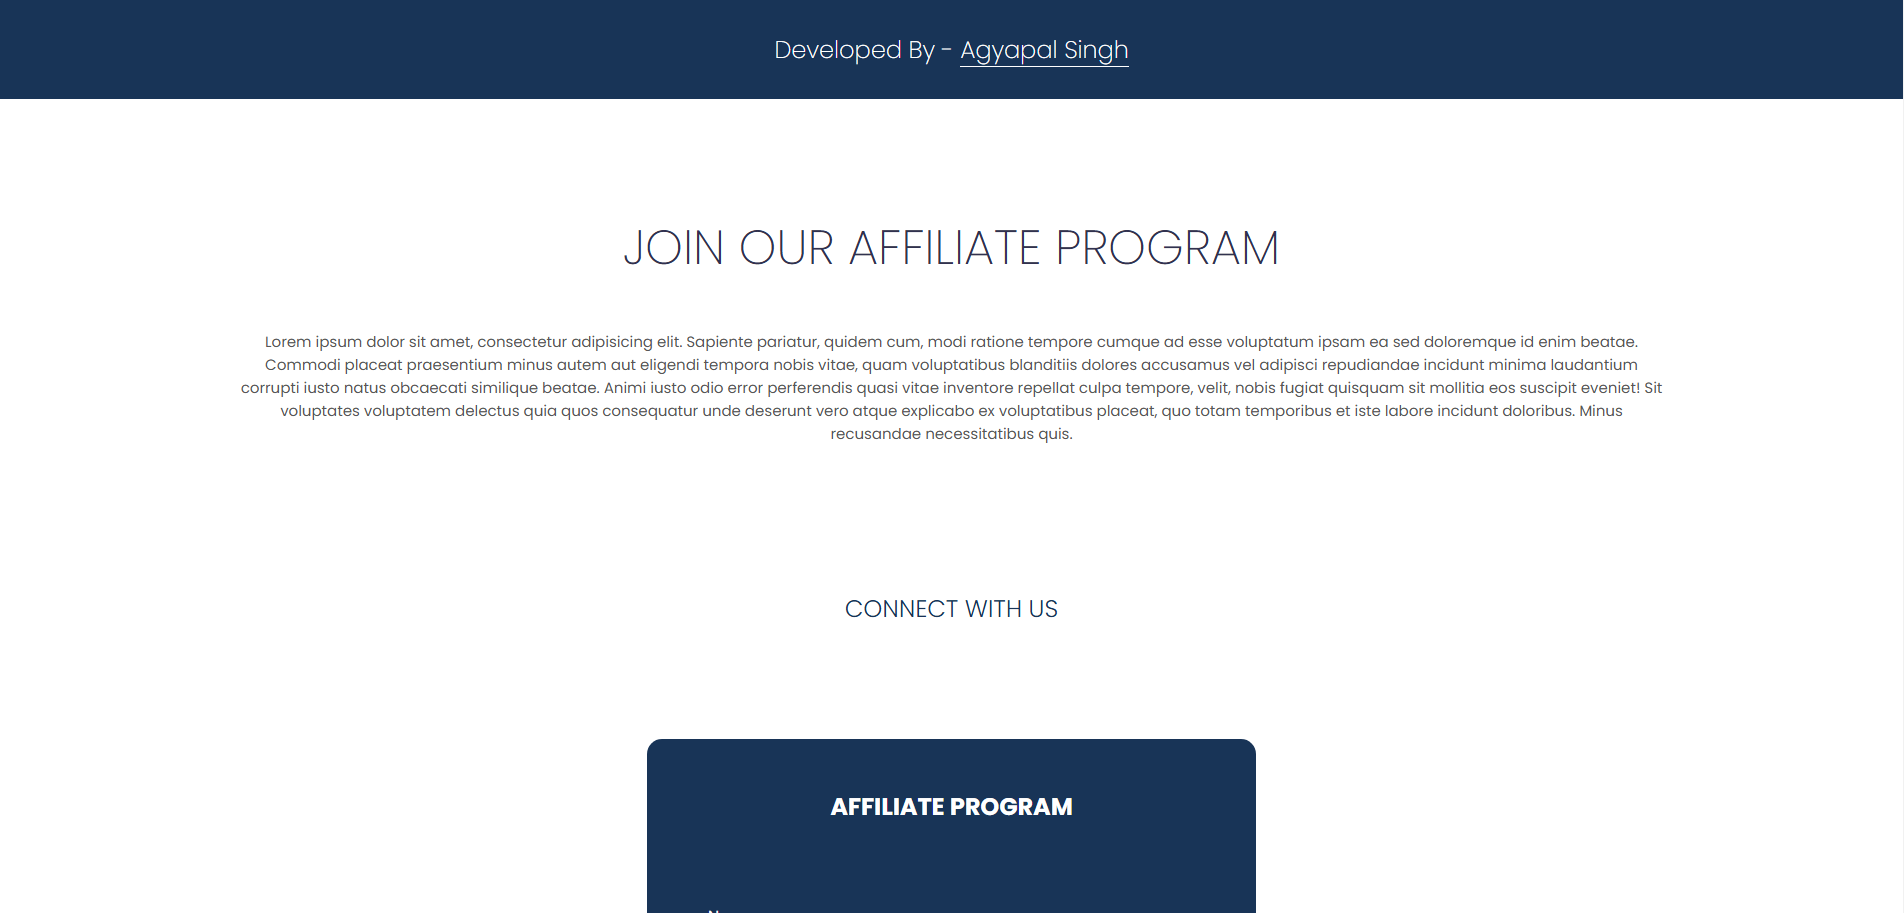
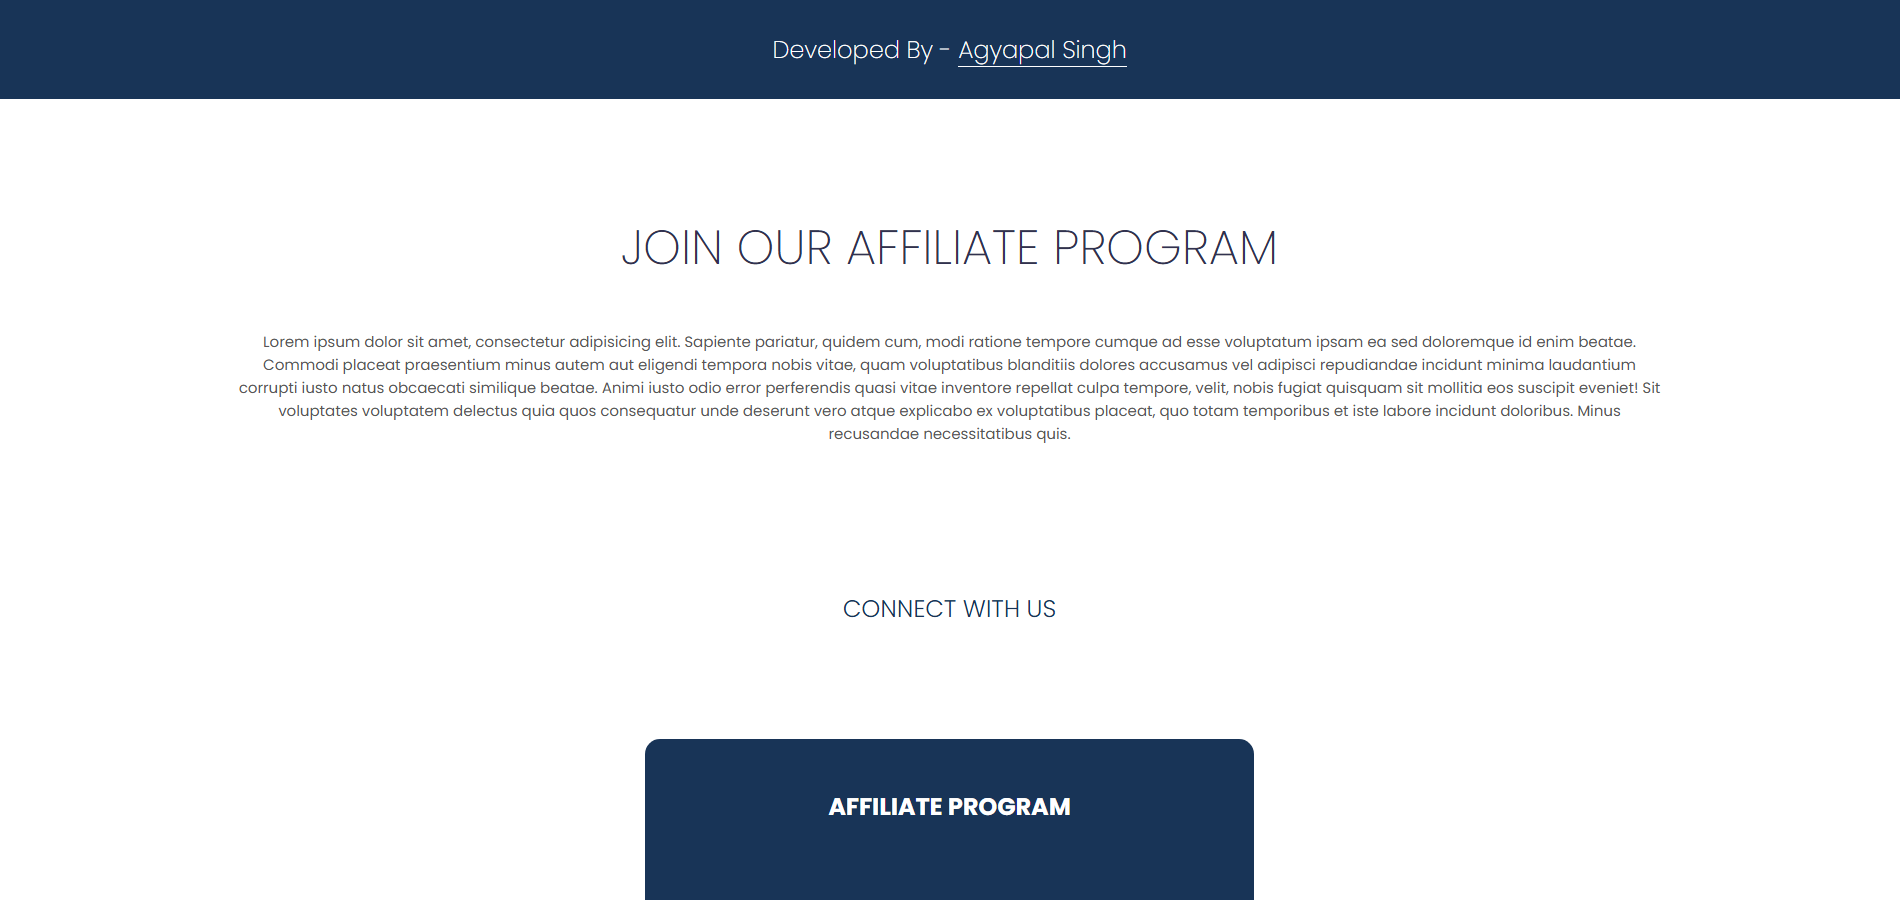
Home PAge Template Card Updated

diff --git a/src/index.css b/src/index.css
@@ -101,7 +101,7 @@ header {
   font-size: 18px;
   font-weight: 300;
   font-family: var(--theme-font-fam-primary);
-  margin-top: 20px;
+  margin: 40px 0px;
 }
 
 .ag-template-card {
@@ -109,19 +109,23 @@ header {
   flex-direction: column;
   align-items: center;
   width: 300px;
-  height: 400px;
   box-shadow: rgba(149, 157, 165, 0.1) 0px 8px 24px;
+  margin-bottom: 20px;
+  overflow: hidden;
+  border-radius: 5px;
+
+  background-color: var(--theme-color-teritary);
 }
 
 .ag-template-card-image {
-  width: 100%;
-  height: 250px;
+  height: 300px;
+  padding: 20px;
+  width: 300px;
 }
 
 .ag-template-card-image img {
-  height: 250px;
-  width: 300px;
-  aspect-ratio: 16/9;
+  height: 260px;
+  width: 260px;
   object-fit: cover;
 }
 .ag-template-card-content {
@@ -129,11 +133,12 @@ header {
   background-color: var(--theme-color-teritary);
   border-radius: 0px 0px 10px 10px;
   padding: 10px;
+  height: 100px;
   width: 100%;
 }
 
 .ag-template-card-info {
-  width: 60%;
+  width: 100%;
 }
 
 .ag-template-card-info h1 {
@@ -151,11 +156,10 @@ header {
 }
 
 .ag-template-card-btn {
-  height: 100%;
-  width: 40%;
+  width: 100%;
   display: flex;
   justify-content: flex-end;
-  align-items: center;
+  padding: 20px 20px;
 }
 
 .ag-template-card-btn p {

diff --git a/src/Components/HomePage.jsx b/src/Components/HomePage.jsx
@@ -7,7 +7,6 @@ const HomePage = () => {
   return (
     <main className="ag-tempalte-container">
       <h1 className="ag-template-title">
-        <FaBars />
         List of Templates
       </h1>
 
@@ -29,13 +28,13 @@ const HomePage = () => {
                   </i>
                 </span>
               </div>
+            </div>
 
-              <div className="ag-template-card-btn">
+            <div className="ag-template-card-btn">
                 <Link to={`/${item.linkTo}`}>
                   <p>View Template</p>
                 </Link>
               </div>
-            </div>
           </div>
         ))}
       </section>
